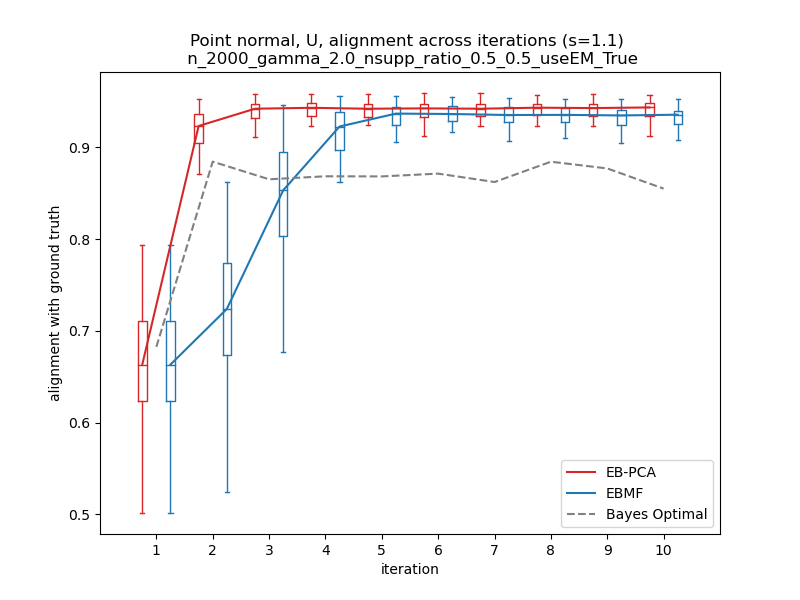
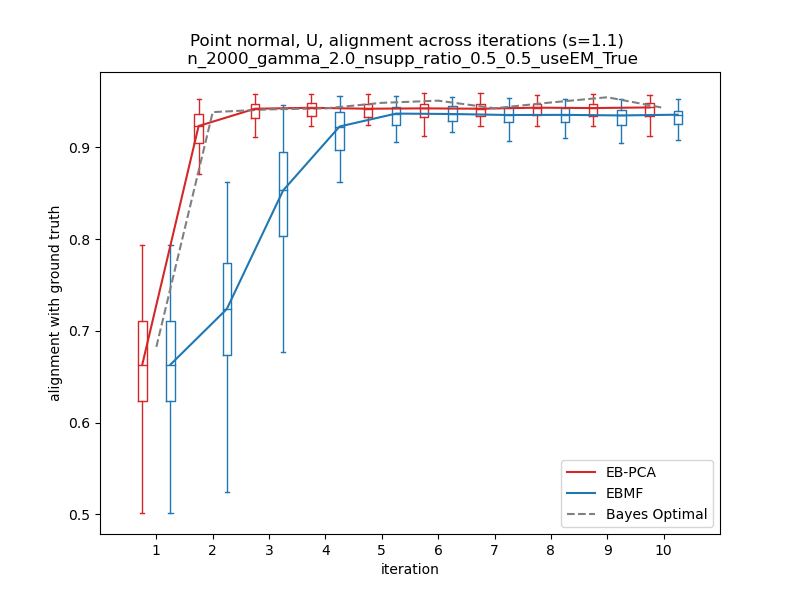
feat: update Figure 3

diff --git a/simulation/rank_one_alignment_iter.py b/simulation/rank_one_alignment_iter.py
@@ -1,9 +1,10 @@
 import matplotlib.pyplot as plt
 import numpy as np
 import sys
+import os
 sys.path.extend(['../../generalAMP'])
 from ebpca.state_evolution import get_state_evolution, get_alignment_evolution, \
-    uniform, point_normal, two_points
+    uniform, point_normal, two_points, point_normal_p1, point_normal_p5, uniform_centered
 
 # ----------------------------------------------
 # Figure 3:
@@ -78,32 +79,53 @@ def make_iter_plot(prior, PCname, iters, plot_seps = [-0.5, 0.5],
 
 
 if __name__ == '__main__':
-    prefix = 'n_2000_gamma_2.0_nsupp_ratio_0.5_0.5_useEM_True' # 'n_1000_gamma_2.0_nsupp_ratio_1.0_1.0_useEM_True'
-    suffix = prefix # 'useEM_pilot'
-    n_rep = 50
+    prefixes = {'n_2000': 'n_2000_gamma_2.0_nsupp_ratio_0.5_0.5_useEM_True',
+                'n_1000': 'n_1000_gamma_2.0_nsupp_ratio_1.0_1.0_useEM_True',
+                'MOSEK_pilot': 'n_2000_gamma_2.0_nsupp_ratio_1.0_1.0_useEM_False'}
+    n_reps = {'n_2000': 50, 'n_1000': 50, 'MOSEK_pilot': 15}
+    priors = {'n_2000': ['Point_normal', 'Two_points', 'Uniform'],
+              'n_1000': ['Point_normal', 'Two_points', 'Uniform'],
+              'MOSEK_pilot': ['Point_normal_0.1', 'Point_normal_0.5',  'Two_points', 'Uniform_centered']}
+    s_lists = {'n_2000': [1.1, 1.3, 1.5, 2.0],
+              'n_1000': [1.1, 1.3, 1.5, 2.0],
+              'MOSEK_pilot': [1.1, 1.3, 1.5]}
+
+    exper_name = 'MOSEK_pilot'
+    prefix = prefixes[exper_name]
+    suffix = prefix
+    n_rep = n_reps[exper_name]
     iters = 10
     gamma = 2
     mmse_funcs = {
         "Uniform": uniform,
         "Two_points": two_points,
-        "Point_normal": point_normal
+        "Point_normal_0.1": point_normal_p1,
+        "Point_normal_0.5": point_normal_p5,
+        "Point_normal": point_normal,
+        "Uniform_centered": uniform_centered
     }
 
+    if not os.path.exists('figures/univariate/Figure3/%s' % prefix):
+        os.mkdir('figures/univariate/Figure3/%s' % prefix)
+
+    plot_se = True
+
     # Figure 3
-    for s in [1.3]: #[1.1, 1.5, 2.0]
-        for prior in ['Point_normal', 'Two_points', 'Uniform']:
+    for s in s_lists[exper_name]:
+        for prior in priors[exper_name]:
             for PCname in ['U', 'V']:
                 make_iter_plot(prior, PCname, 10, bp_colors=['tab:red', 'tab:blue'], suffix=suffix, prefix=prefix)
-                se = get_state_evolution(s, gamma, mmse_funcs[prior], mmse_funcs[prior], iters)
-                ae = get_alignment_evolution(se)
-                if PCname == 'U':
-                    plt.plot([i + 1 - 1 for i in range(0, 2 * iters, 2)], ae.ualigns[:-1],
-                             c='grey', linestyle='--', label='Bayes Optimal')
-                else:
-                    plt.plot([i + 1 - 1 for i in range(0, 2 * iters, 2)], ae.valigns[:-1],
-                             c='grey', linestyle='--', label='Bayes Optimal')
+                if plot_se:
+                    se = get_state_evolution(s, gamma, mmse_funcs[prior], mmse_funcs[prior], iters)
+                    ae = get_alignment_evolution(se)
+                    if PCname == 'U':
+                        plt.plot([i + 1 - 1 for i in range(0, 2 * iters, 2)], ae.ualigns[:-1],
+                                 c='grey', linestyle='--', label='Bayes Optimal')
+                    else:
+                        plt.plot([i + 1 - 1 for i in range(0, 2 * iters, 2)], ae.valigns[:-1],
+                                 c='grey', linestyle='--', label='Bayes Optimal')
                 plt.legend(loc='lower right')
-                plt.savefig('figures/univariate/Figure3/%s_%s_%.1f_iterations_boxplots_%s.png' % (prior, PCname, s, suffix))
+                plt.savefig('figures/univariate/Figure3/%s/%s_%s_%.1f_iterations_boxplots.png' % (prefix, prior, PCname, s))
                 plt.close()
 
     exit()
